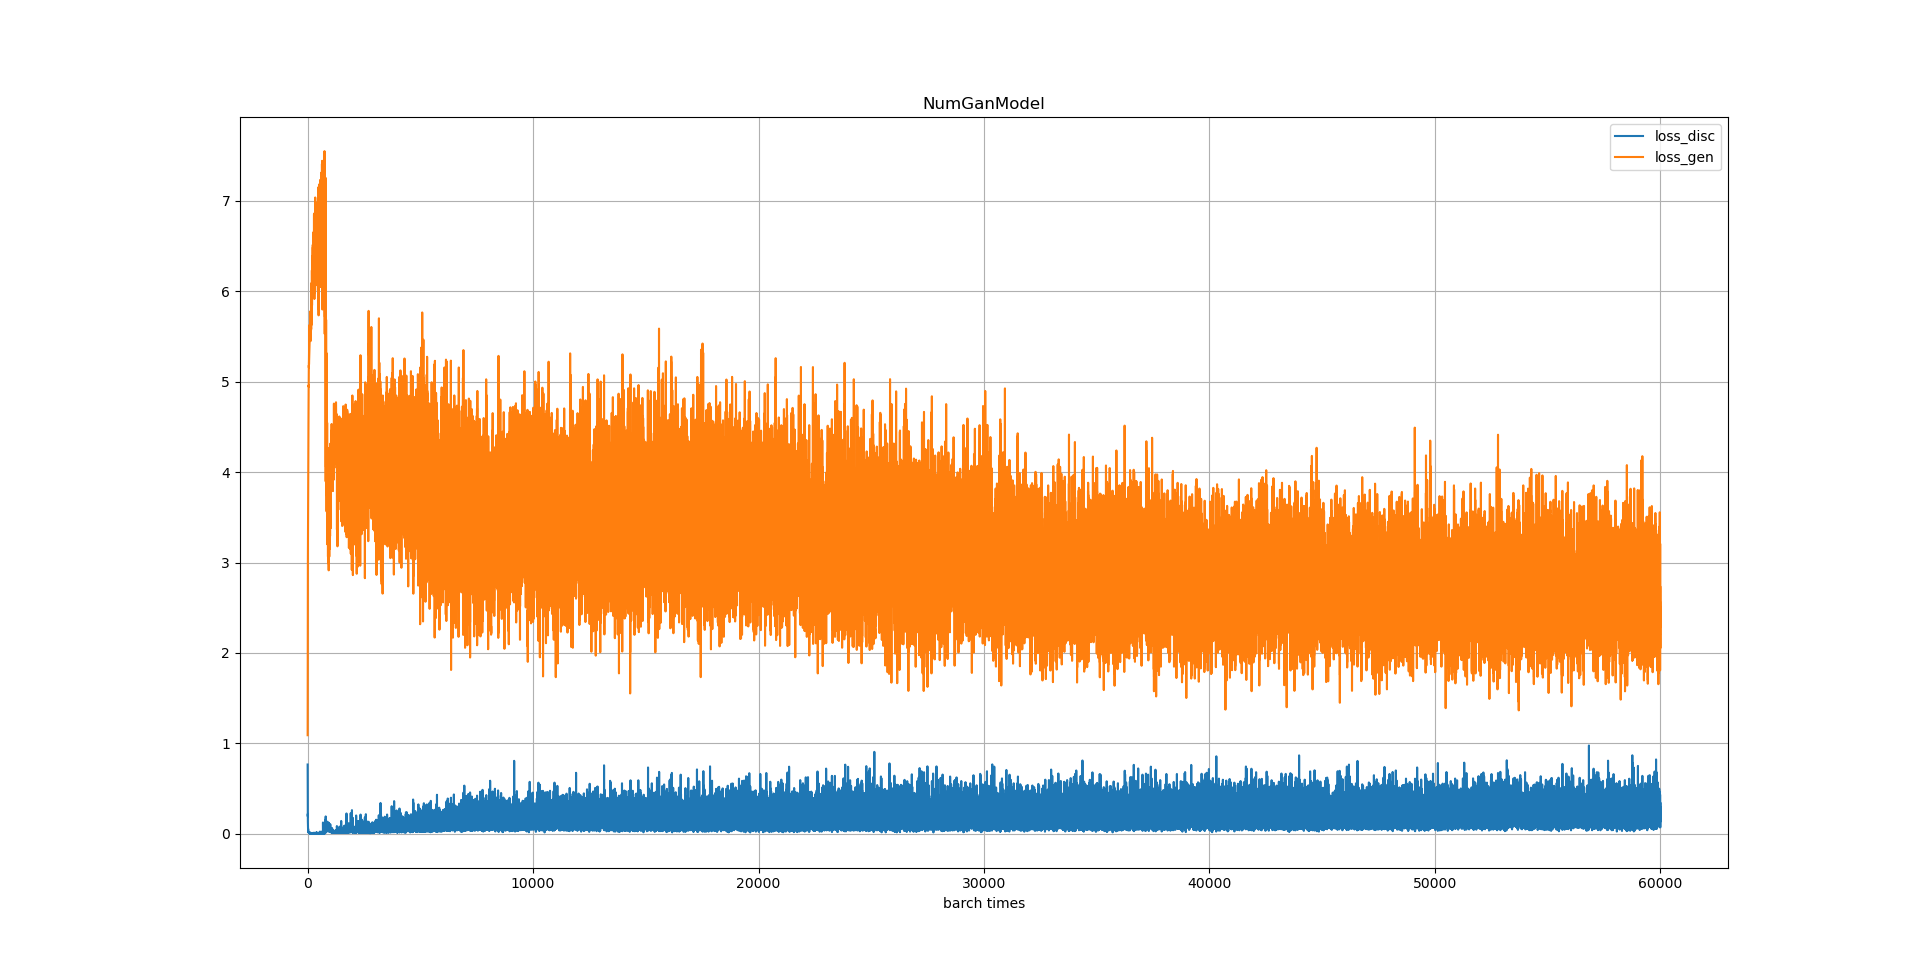
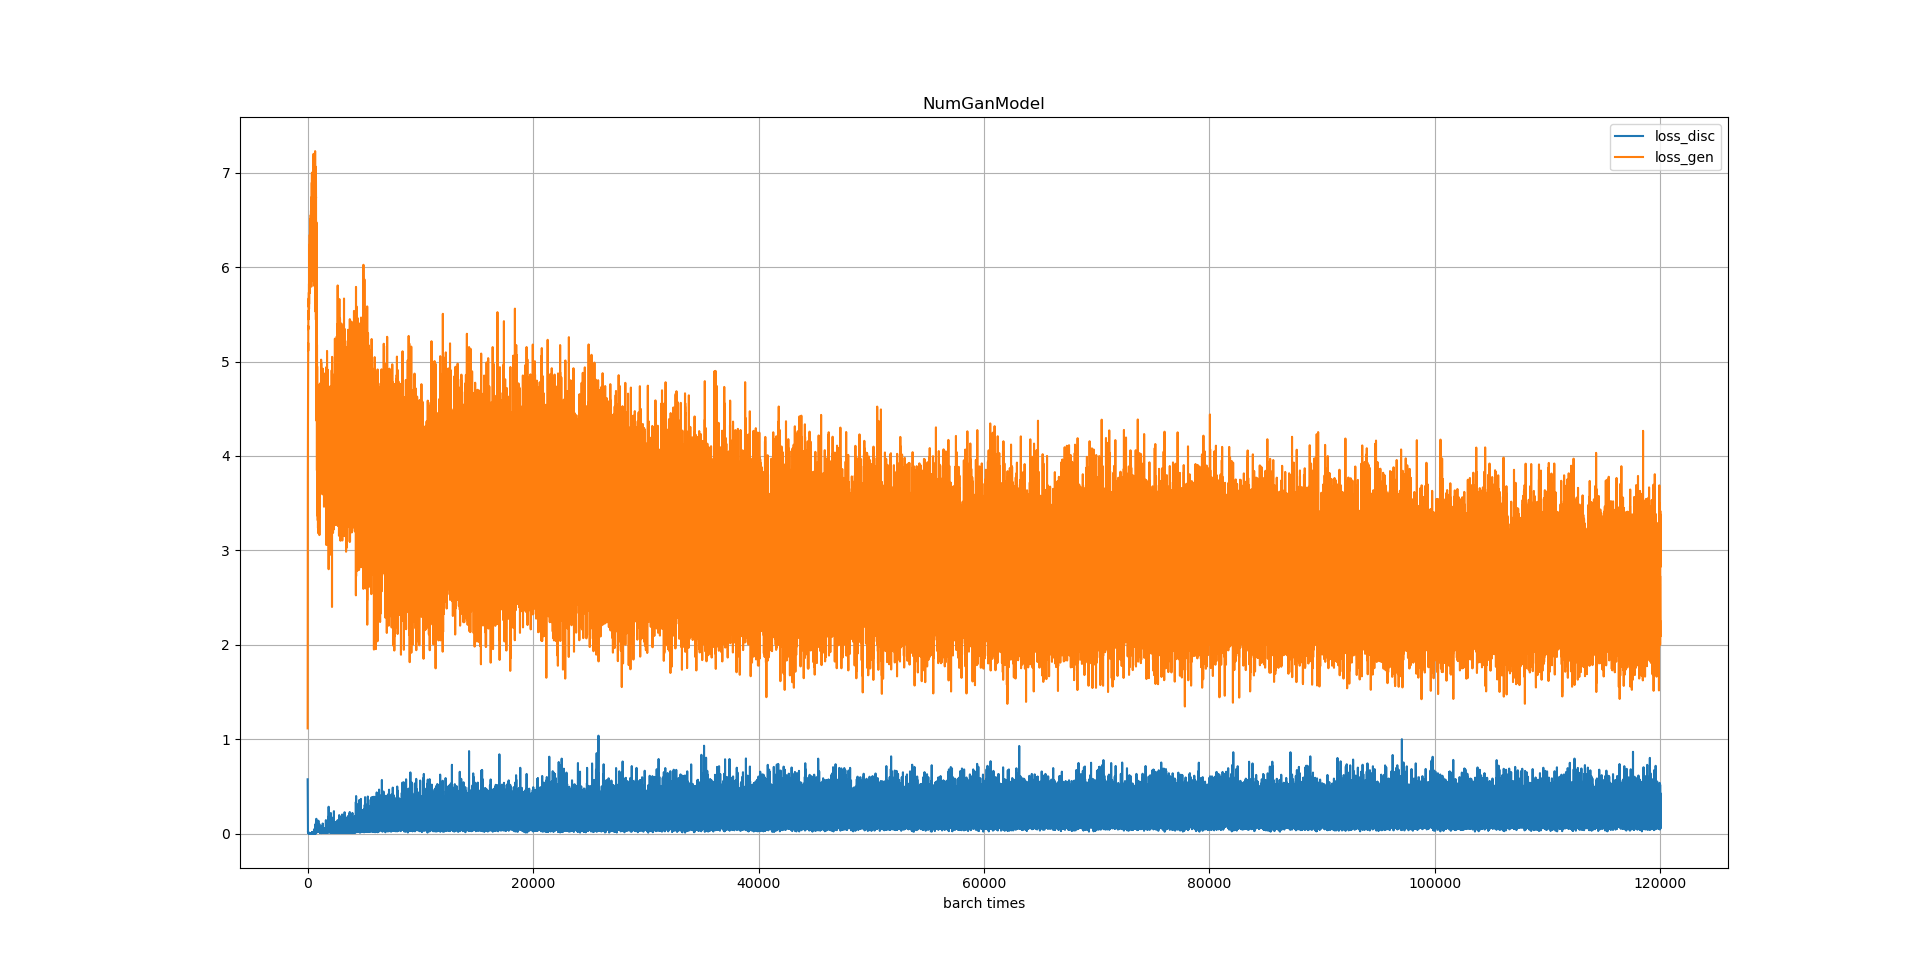
add cnn

diff --git a/AI-Stu/03-GenerativeAdversarialNetwork/handwrite_number_gen2/NumGanModel5.py b/AI-Stu/03-GenerativeAdversarialNetwork/handwrite_number_gen2/NumGanModel5.py
@@ -1,0 +1,70 @@
+from typing import Optional, List
+
+import torch
+from torch import nn
+from torch.nn import functional as F
+
+from NumGanModel4 import NumGanModel4
+
+
+class Interpolate(nn.Module, ):
+    def __init__(self, size: Optional[int] = None, scale_factor: Optional[List[float]] = None, mode: str = 'nearest',
+                 align_corners: Optional[bool] = None, recompute_scale_factor: Optional[bool] = None,
+                 antialias: bool = False):
+        super().__init__()
+        self.size = size
+        self.scale_factor = scale_factor
+        self.mode = mode
+        self.align_corners = align_corners
+        self.recompute_scale_factor = recompute_scale_factor
+        self.antialias = antialias
+
+    def forward(self, inputTensor):
+        return F.interpolate(inputTensor, self.size, self.scale_factor, self.mode, self.align_corners,
+                             self.recompute_scale_factor, self.antialias)
+
+
+class NumGanModel5(NumGanModel4):
+    def __init__(self):
+        super().__init__()
+        # 定义判别器模型
+        self.DiscModel = nn.Sequential(
+            # 输入的是n*1*28*28的张量，即n张1通道28*28的图片
+            # 参考handwrite_number_gen项目中，LeNetModelDef的网络架构
+            nn.Conv2d(1, 6, kernel_size=5, padding=2),
+            nn.ReLU(),
+            nn.AvgPool2d(kernel_size=2, stride=2),
+            nn.Conv2d(6, 16, kernel_size=5, padding=0),
+            nn.ReLU(),
+            nn.AvgPool2d(kernel_size=2, stride=2),
+            nn.Flatten(),
+            nn.Linear(400, 200),
+            nn.ReLU(),
+            nn.Linear(200, 1),
+            nn.Sigmoid(),
+        )
+        # 定义生成器模型
+        self.GenModel = nn.Sequential(
+            nn.Linear(100, 200),
+            nn.ReLU(),
+            nn.Linear(200, 400),
+            nn.ReLU(),
+            nn.Unflatten(1, (16, 5, 5)),
+            Interpolate(scale_factor=2, mode='nearest'),
+            nn.ReLU(),
+            nn.ConvTranspose2d(16, 6, kernel_size=5, padding=0),
+            nn.ReLU(),
+            Interpolate(scale_factor=2, mode='nearest'),
+            nn.ReLU(),
+            nn.ConvTranspose2d(6, 1, kernel_size=5, padding=2),
+            nn.Sigmoid(),
+        )
+        # 将两个模型都移动到GPU执行
+        self.DiscModel.to(torch.cuda.current_device())
+        self.GenModel.to(torch.cuda.current_device())
+        # 定义模型的Loss函数，由于GAN自始至终仅用到判别器的Loss函数，所以只需定义判别器的Loss，无需定义生成器的Loss
+        # 改进采用二元交叉熵损失函数
+        self.DiscLoss = nn.BCELoss()
+        # 定义两个模型的优化器
+        self.DiscOptimiser = torch.optim.Adam(self.DiscModel.parameters(), lr=0.0001)
+        self.GenOptimiser = torch.optim.Adam(self.GenModel.parameters(), lr=0.0001)

diff --git a/AI-Stu/03-GenerativeAdversarialNetwork/handwrite_number_gen2/Test.py b/AI-Stu/03-GenerativeAdversarialNetwork/handwrite_number_gen2/Test.py
@@ -1,0 +1,31 @@
+import torch
+from torch import nn
+
+
+def test1():
+    inputTensor = torch.randn(5, 1, 3, 3)
+    print('inputTensor---------------------------------------------', inputTensor.shape)
+    print(inputTensor)
+
+    finputTensor = nn.Flatten().forward(inputTensor)
+    print('finputTensor---------------------------------------------', finputTensor.shape)
+    print(finputTensor)
+
+    ufinputTensor = nn.Unflatten(1, (1, 3, 3)).forward(finputTensor)
+    print('ufinputTensor---------------------------------------------', ufinputTensor.shape)
+    print(ufinputTensor)
+
+def test2():
+    inputTensor = torch.randn(5, 5, 3, 3)
+    print('inputTensor---------------------------------------------', inputTensor.shape)
+    print(inputTensor)
+
+    finputTensor = nn.Flatten().forward(inputTensor)
+    print('finputTensor---------------------------------------------', finputTensor.shape)
+    print(finputTensor)
+
+    ufinputTensor = nn.Unflatten(1, (5, 3, 3)).forward(finputTensor)
+    print('ufinputTensor---------------------------------------------', ufinputTensor.shape)
+    print(ufinputTensor)
+
+test2()

diff --git a/AI-Stu/03-GenerativeAdversarialNetwork/handwrite_number_gen2/NumGanModelTrain5.py b/AI-Stu/03-GenerativeAdversarialNetwork/handwrite_number_gen2/NumGanModelTrain5.py
@@ -5,7 +5,7 @@ from torch.utils.data import DataLoader
 from NumDataSet import NumDataSet
 import torchvision.transforms as transforms
 
-from NumGanModel4 import NumGanModel4
+from NumGanModel5 import NumGanModel5
 
 # 定义数据变换
 transform = transforms.Compose([
@@ -17,7 +17,7 @@ true_dataset = NumDataSet(root='./data', train=True, download=True, transform=tr
 true_dataloader = DataLoader(true_dataset, batch_size=10, shuffle=True)
 
 # 训练轮次，数据集上全部训练一遍为一轮
-Gan = NumGanModel4()
+Gan = NumGanModel5()
 train_times = 20
 Gan.TrainModel(train_times, true_dataloader)
 

diff --git a/AI-Stu/03-GenerativeAdversarialNetwork/handwrite_number_gen2/ReadMe.md b/AI-Stu/03-GenerativeAdversarialNetwork/handwrite_number_gen2/ReadMe.md
@@ -36,5 +36,9 @@
 * 表现：![NumGanModel4-1.png](ReadMe%2FNumGanModel4-1.png)![NumGanModel4-1Result.png](ReadMe%2FNumGanModel4-1Result.png)
 
 
-* 训练：[NumGanModelTrain4.py](NumGanModelTrain4.py)，将batch size从1改到100，训练次数维持60万次
+* 训练：[NumGanModelTrain4.py](NumGanModelTrain4.py)，将batch size从1改到100，训练次数维持120万次
 * 表现：![NumGanModel4-2.png](ReadMe%2FNumGanModel4-2.png)![NumGanModel4-2Result.png](ReadMe%2FNumGanModel4-2Result.png)
+
+# 优化5
+
+使用卷积GAN
